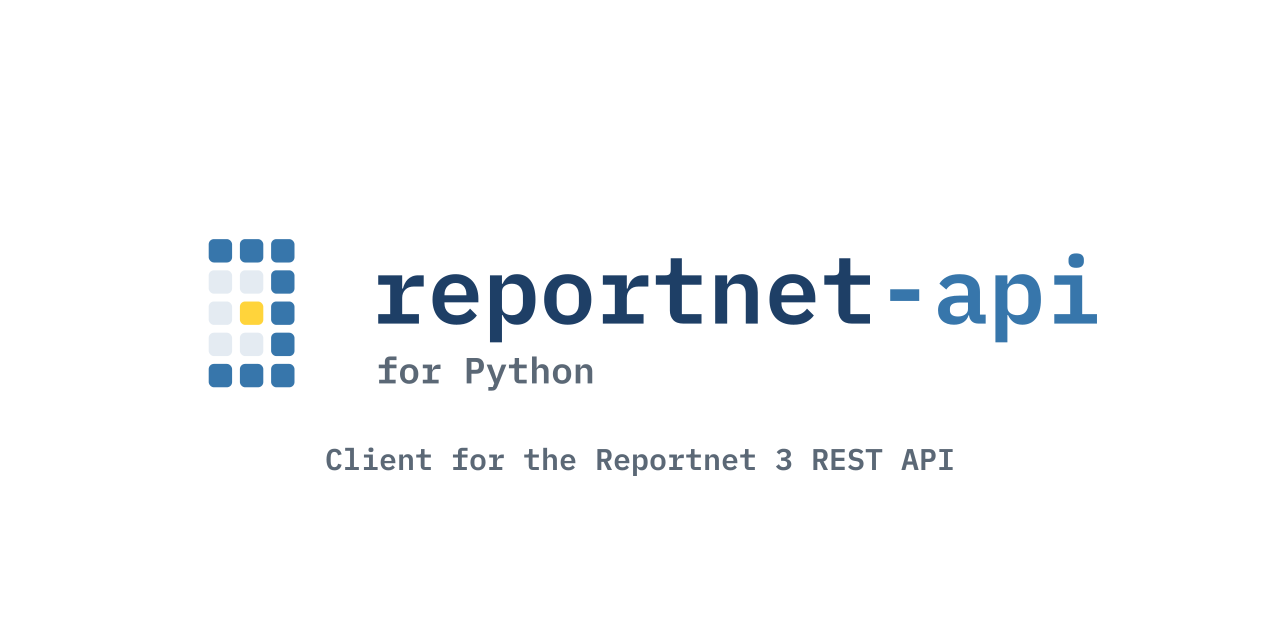
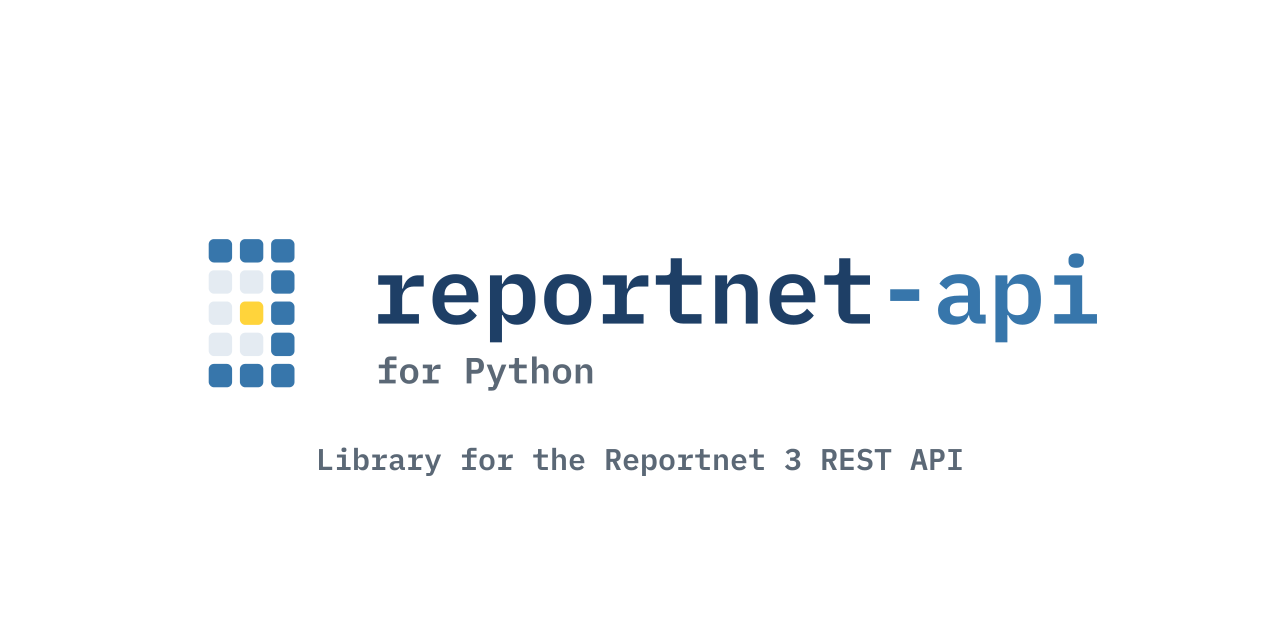
Social preview: "Library for the Reportnet 3 REST API"

Changed region(s): [[0.25, 0.6875, 0.75, 0.75]]

diff --git a/scripts/make_logo.py b/scripts/make_logo.py
@@ -97,7 +97,7 @@ c = LIGHT
 body, w = lockup(c)
 scale = 2.6
 tx, ty = (1280 - w * scale) / 2, 230
-tag, tw = text_path("Client for the Reportnet 3 REST API", 0, 0, 30)
+tag, tw = text_path("Library for the Reportnet 3 REST API", 0, 0, 30)
 social = (f'<rect width="1280" height="640" fill="{c["bg"]}"/>'
           f'<g transform="translate({tx:.1f} {ty}) scale({scale})">{body}</g>'
           f'<path d="{tag}" fill="{c["muted"]}" transform="translate({(1280 - tw) / 2:.1f} 470)"/>')
